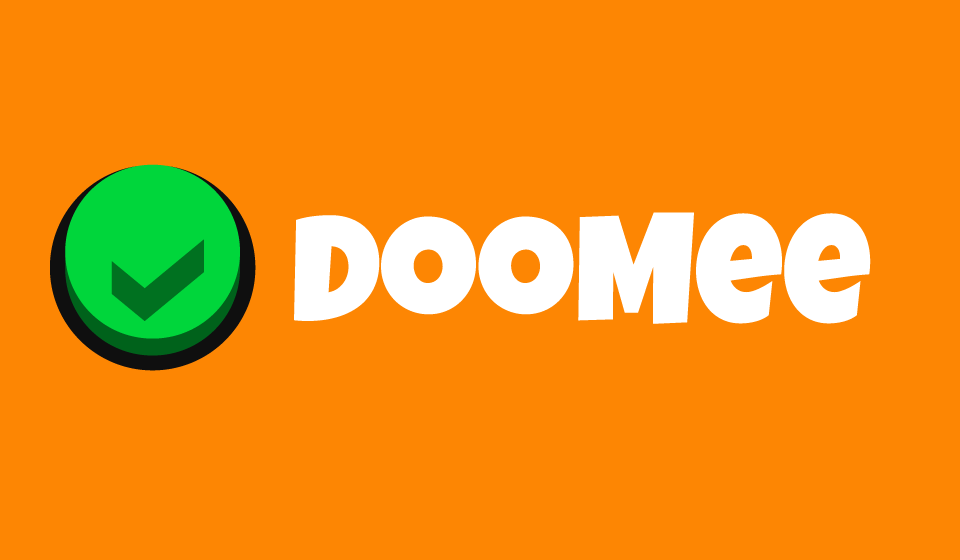
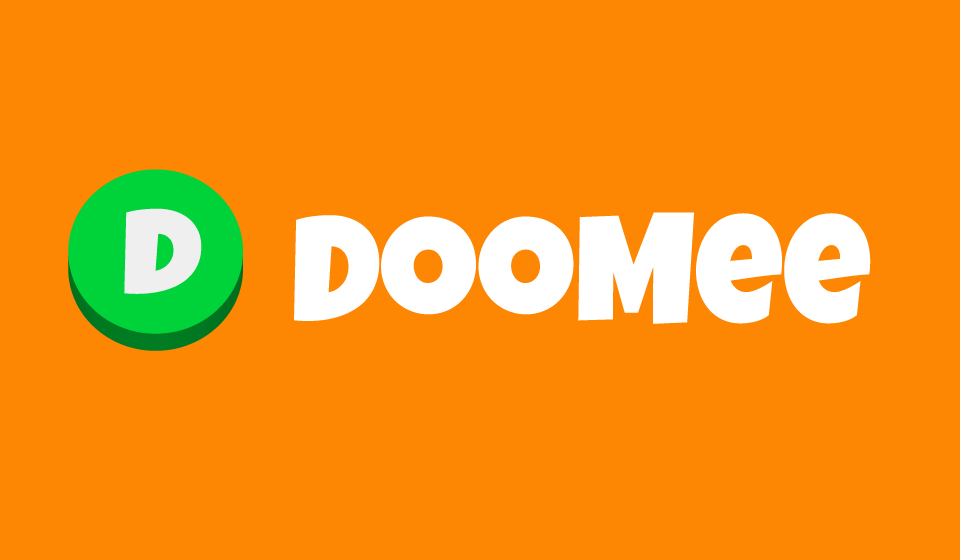
dbutton endpoint

Changed region(s): [[0.0312, 0.2732, 0.2812, 0.6679], [0.1875, 0.3036, 0.2188, 0.3339]]

diff --git a/server/api/dbutton/dbutton.controller.js b/server/api/dbutton/dbutton.controller.js
@@ -1,0 +1,59 @@
+'use strict';
+
+var _ = require('lodash');
+var Dbutton = require('./dbutton.model');
+
+// Get list of dbuttons
+exports.index = function(req, res) {
+  Dbutton.find(function (err, dbuttons) {
+    if(err) { return handleError(res, err); }
+    return res.json(200, dbuttons);
+  });
+};
+
+// Get a single dbutton
+exports.show = function(req, res) {
+  Dbutton.findById(req.params.id, function (err, dbutton) {
+    if(err) { return handleError(res, err); }
+    if(!dbutton) { return res.send(404); }
+    return res.json(dbutton);
+  });
+};
+
+// Creates a new dbutton in the DB.
+exports.create = function(req, res) {
+  Dbutton.create(req.body, function(err, dbutton) {
+    if(err) { return handleError(res, err); }
+    return res.json(201, dbutton);
+  });
+};
+
+// Updates an existing dbutton in the DB.
+exports.update = function(req, res) {
+  if(req.body._id) { delete req.body._id; }
+  Dbutton.findById(req.params.id, function (err, dbutton) {
+    if (err) { return handleError(res, err); }
+    if(!dbutton) { return res.send(404); }
+    var updated = _.merge(dbutton, req.body);
+    updated.save(function (err) {
+      if (err) { return handleError(res, err); }
+      return res.json(200, dbutton);
+    });
+  });
+};
+
+// Deletes a dbutton from the DB.
+exports.destroy = function(req, res) {
+  Dbutton.findById(req.params.id, function (err, dbutton) {
+    if(err) { return handleError(res, err); }
+    if(!dbutton) { return res.send(404); }
+    dbutton.remove(function(err) {
+      if(err) { return handleError(res, err); }
+      return res.send(204);
+    });
+  });
+};
+
+function handleError(res, err) {
+  return res.send(500, err);
+}

diff --git a/server/api/dbutton/dbutton.socket.js b/server/api/dbutton/dbutton.socket.js
@@ -1,0 +1,24 @@
+/**
+ * Broadcast updates to client when the model changes
+ */
+
+'use strict';
+
+var Dbutton = require('./dbutton.model');
+
+exports.register = function(socket) {
+  Dbutton.schema.post('save', function (doc) {
+    onSave(socket, doc);
+  });
+  Dbutton.schema.post('remove', function (doc) {
+    onRemove(socket, doc);
+  });
+}
+
+function onSave(socket, doc, cb) {
+  socket.emit('dbutton:save', doc);
+}
+
+function onRemove(socket, doc, cb) {
+  socket.emit('dbutton:remove', doc);
+}

diff --git a/server/api/dbutton/dbutton.spec.js b/server/api/dbutton/dbutton.spec.js
@@ -1,0 +1,20 @@
+'use strict';
+
+var should = require('should');
+var app = require('../../app');
+var request = require('supertest');
+
+describe('GET /api/dbuttons', function() {
+
+  it('should respond with JSON array', function(done) {
+    request(app)
+      .get('/api/dbuttons')
+      .expect(200)
+      .expect('Content-Type', /json/)
+      .end(function(err, res) {
+        if (err) return done(err);
+        res.body.should.be.instanceof(Array);
+        done();
+      });
+  });
+});

diff --git a/client/app/main/main.html b/client/app/main/main.html
@@ -3,7 +3,7 @@
 <header class="hero-unit" id="banner">
   <div class="vertical-container">
 
-      <h1><img src="assets/images/checkbutton_med.png" alt="I'm a DooMee" class="pull-left">DooMee</h1>
+      <h1><span class="logo-button"><button class="button button-3d button-action button-circle button-ginormous">&nbsp;</button></span>DooMee</h1>
     <p class="lead">An internet connected done button.</p>
   </div>
 </header>

diff --git a/server/api/dbutton/index.js b/server/api/dbutton/index.js
@@ -1,0 +1,15 @@
+'use strict';
+
+var express = require('express');
+var controller = require('./dbutton.controller');
+
+var router = express.Router();
+
+router.get('/', controller.index);
+router.get('/:id', controller.show);
+router.post('/', controller.create);
+router.put('/:id', controller.update);
+router.patch('/:id', controller.update);
+router.delete('/:id', controller.destroy);
+
+module.exports = router;

diff --git a/client/index.html b/client/index.html
@@ -13,6 +13,7 @@
     <!-- Place favicon.ico and apple-touch-icon.png in the root directory -->
     <!-- build:css(client) app/vendor.css -->
       <!-- bower:css -->
+      <link rel="stylesheet" href="bower_components/Buttons/css/buttons.css" />
       <!-- endbower -->
     <!-- endbuild -->
     <!-- build:css({.tmp,client}) app/app.css -->

diff --git a/server/routes.js b/server/routes.js
@@ -9,6 +9,7 @@ var errors = require('./components/errors');
 module.exports = function(app) {
 
   // Insert routes below
+  app.use('/api/dbuttons', require('./api/dbutton'));
   app.use('/api/things', require('./api/thing'));
   app.use('/api/users', require('./api/user'));
 

diff --git a/server/api/dbutton/dbutton.model.js b/server/api/dbutton/dbutton.model.js
@@ -1,0 +1,12 @@
+'use strict';
+
+var mongoose = require('mongoose');
+var Schema = mongoose.Schema;
+var ObjectId = Schema.ObjectId;
+
+var DbuttonSchema = new Schema({
+  userId: ObjectId,
+  taskId: ObjectId
+});
+
+module.exports = mongoose.model('Dbutton', DbuttonSchema);

diff --git a/server/config/socketio.js b/server/config/socketio.js
@@ -18,6 +18,7 @@ function onConnect(socket) {
   });
 
   // Insert sockets below
+  require('../api/dbutton/dbutton.socket').register(socket);
   require('../api/thing/thing.socket').register(socket);
 }
 
